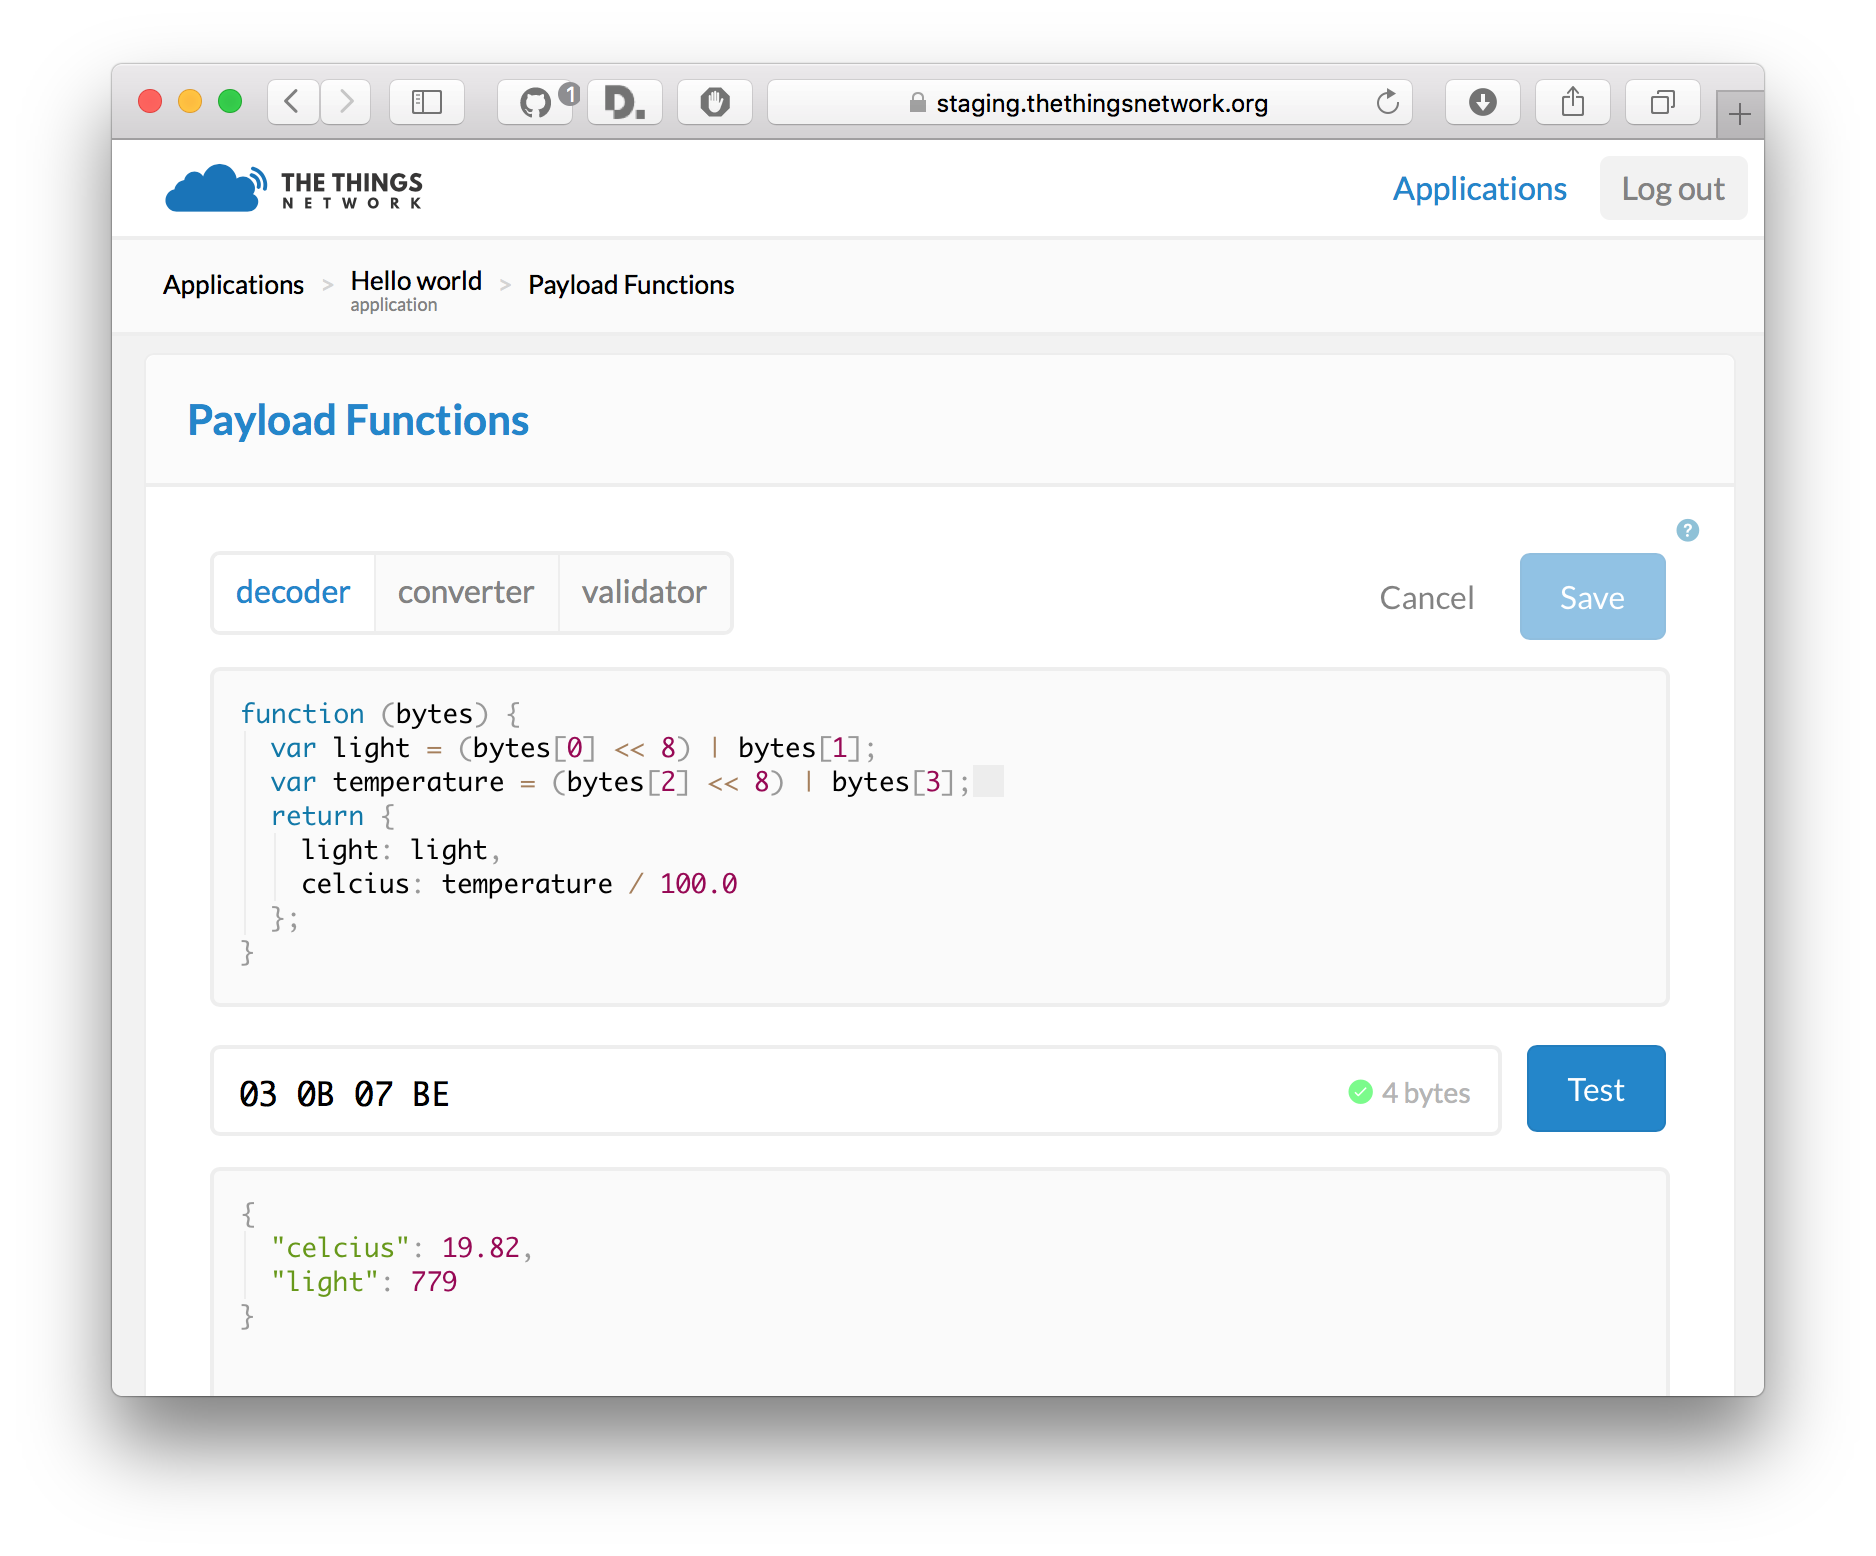
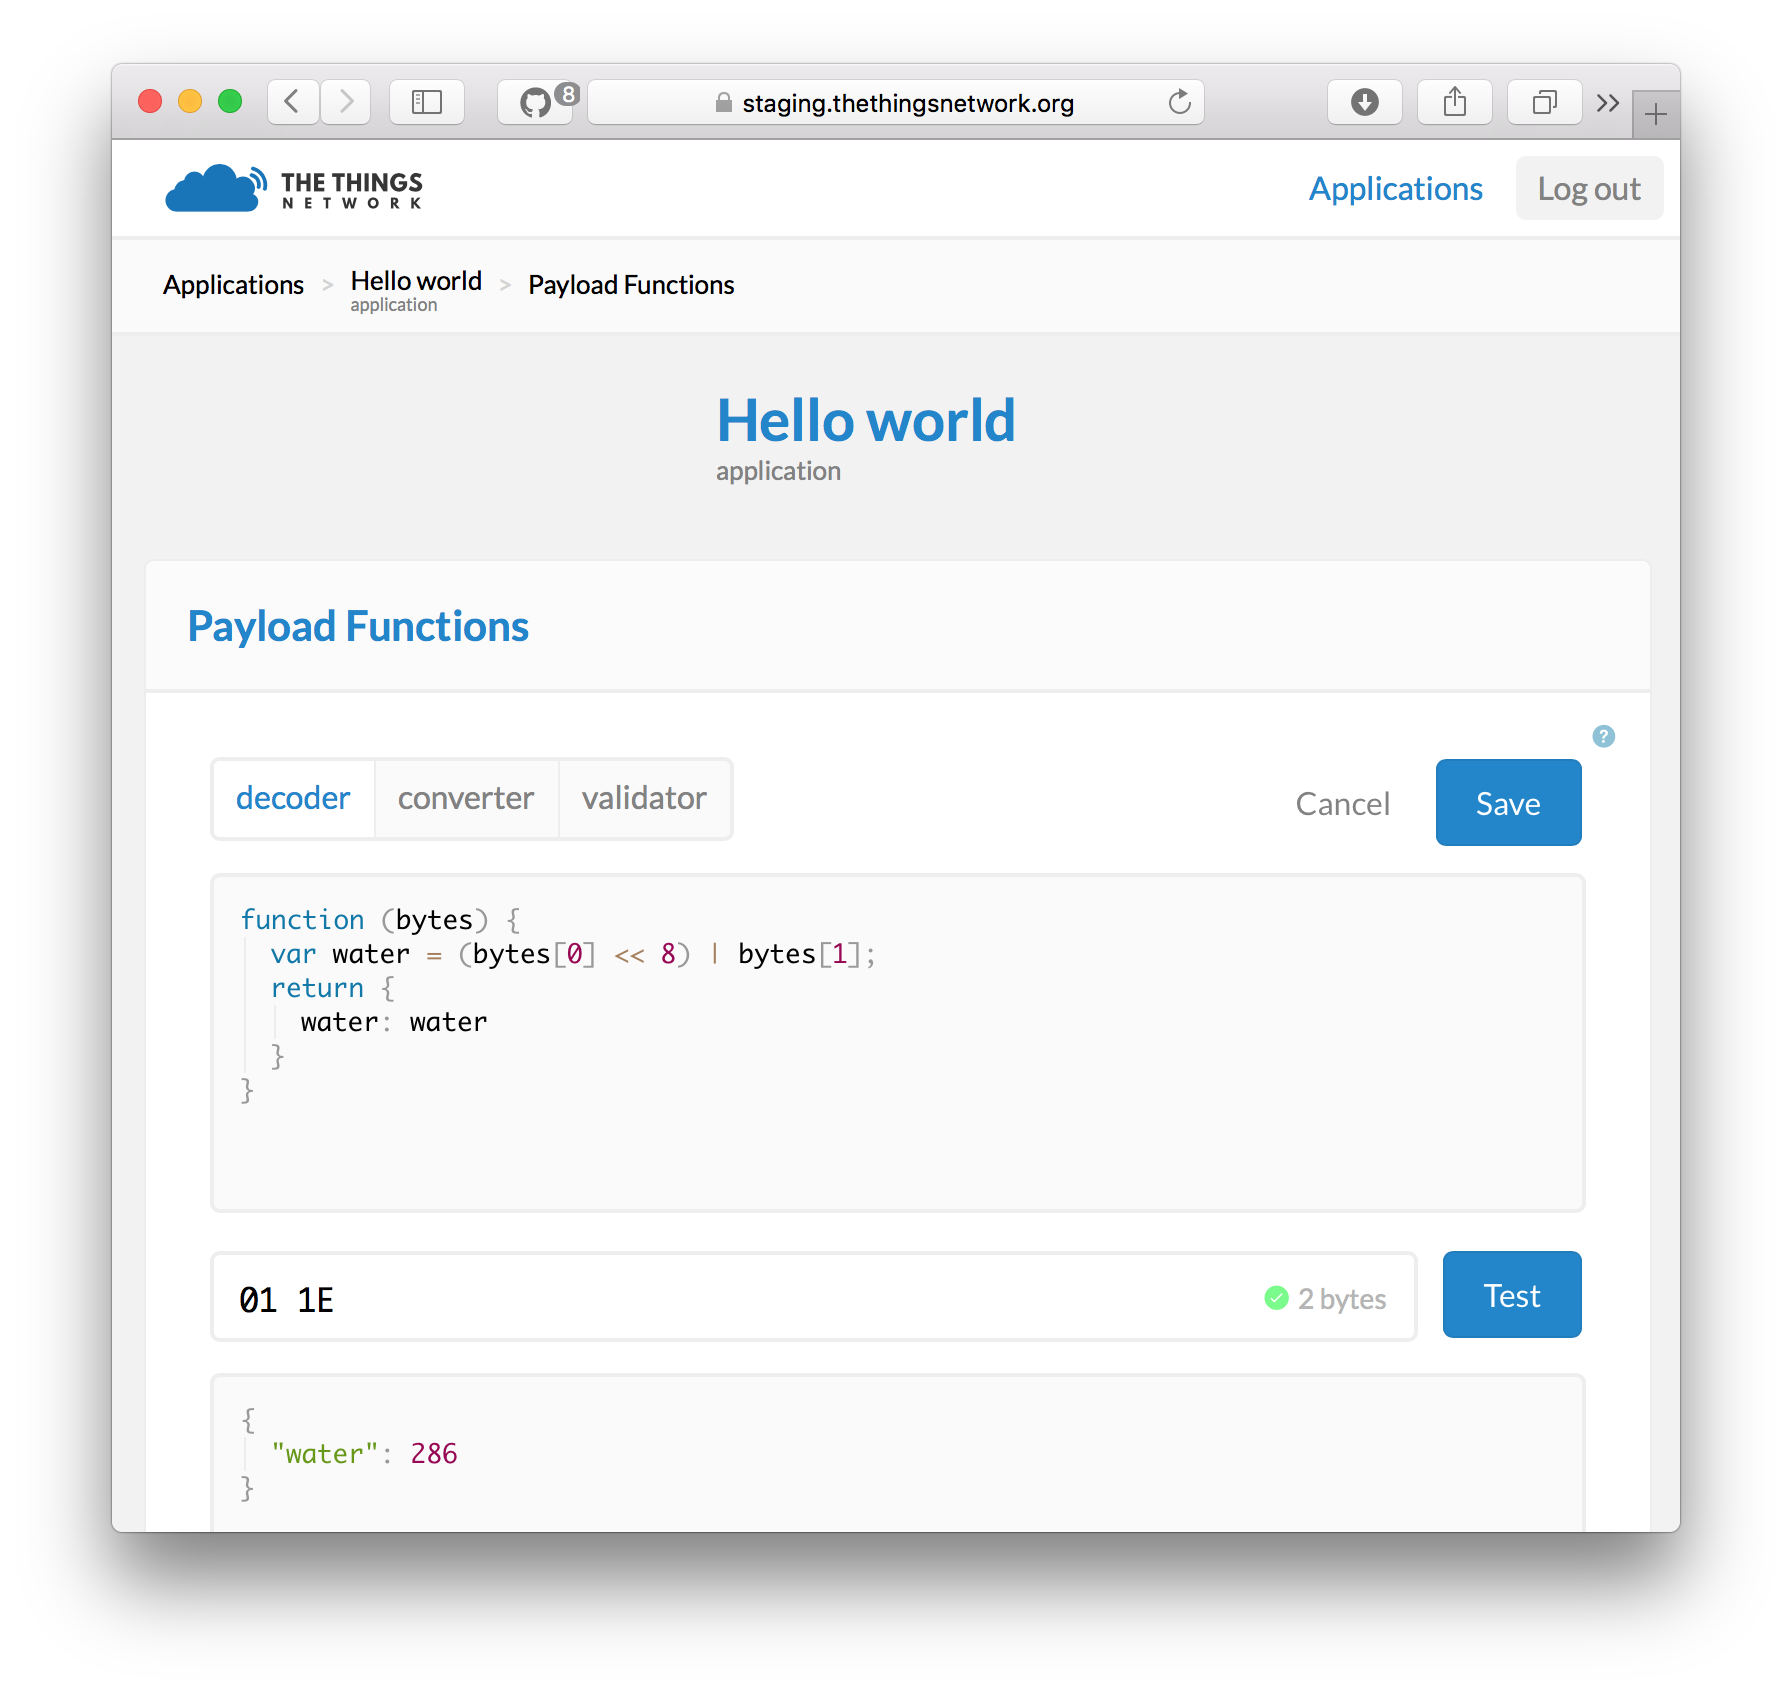
Women Who Code London workshop

diff --git a/workshops/TheThingsUno/README.md b/workshops/TheThingsUno/README.md
@@ -4,21 +4,59 @@
 
 1. The Things Uno
 2. Micro-USB cable
-3. Light and temperature sensor
-4. Breadboard
+3. Water sensor
+4. Grove-to-male jumper cable
 5. Laptop with Windows 7 or higher, Mac OS X or Linux
 
-## Setup
+## Getting Data
 
-### Arduino IDE
+### Setup
 
 1. Download and install [Arduino IDE](https://www.arduino.cc/en/Main/Software)
-2. In Arduino IDE, go to **sketch** > **Include Library** > **Manage Library**, search for **TheThingsNetwork** and install the TheThingsNetwork's Arduino library.
+2. In Arduino IDE, go to **Sketch** > **Include Library** > **Manage Library**, search for **TheThingsNetwork** and install the TheThingsNetwork's Arduino library.
 3. Connect the The Things Uno to your computer using the Micro-USB cable
 4. Select **Tools** > **Board** > **Arduino Leonardo**
 5. Select **Tools** > **Port** > the port that identifies as **Arduino Leonardo**. For example, on Mac OS X:
    ![arduino-port](./media/arduino-port.png)
    On Windows, in **Control Panel**, open the **Device Manager** to see which COM port you should use.
+   
+### Reading Sensor Value
+
+In the Arduino IDE, start with an empty sketch (go to **File** > **New**).
+
+Connect your water sensor to your The Things Uno by using the grove-to-male jumper cable:
+- The red pin goes in `5V`
+- The black pin goes in `GND`
+- The yellow pin goes in digital `2`
+- The white pin is not connected
+
+![overview](./media/overview.jpg)
+
+Replace the `loop()` method:
+
+```c
+void loop() {
+  // read a sensor value
+  uint32_t water = 1023 - analogRead(A0);
+
+  // print it
+  Serial.print(F("The water level is: "));
+  Serial.println(water);
+
+  // wait a second
+  delay(1000);
+}
+```
+
+### Showing Sensor Value
+
+1. Click **Sketch** > **Verify/Compile** and make sure that compilation works (Arduino says *Done compiling*)
+2. Click **Sketch** > **Upload** (Arduino says *Done uploading*)
+3. Go to **Tools** > **Serial Monitor** to see the output of your node. This should look like this:
+
+![sensor-value](./media/sensor-value.png)
+
+## Sending Data
 
 ### The Things Network Dashboard
 
@@ -42,50 +80,31 @@ You will be redirected to the newly created Application page.
 
 ![application info](./media/app-info.png)
 
-*Note: in every component on the dashboard there is a small help icon.
-This opens a help message with details about that components.*
+*Note: in every component on the dashboard there is a small help icon. This opens a help message with details about that components.*
 
-#### Register an ABP Device
-
-The Things Network supports the two LoRaWAN mechanisms to register devices:
-activation by personalization (ABP) and over the air activation (OTAA). In this
-workshop, we use ABP.
-
-##### Register the Device
+#### Register Device
 
 To register the device, go back to the dashboard and click
-**Register Device** on the application page. This will take you to the device
-registration page.
+**Register Device** on the application page. This will take you to the device registration page.
 
-Select **ABP**. We will let both session keys to be randomly generated. To continue,
-click **Register**.
+Select **ABP**. We will let both session keys to be randomly generated. To continue, click **Register**.
 
 ![register-device](./media/register-device-abp.png)
 
-You will be redirected to the device info page. Here you can view all
-information about your device, send messages to the device and view messages
-that were sent by the device.
+You will be redirected to the device info page. Here you can view all information about your device, send messages to the device and view messages that were sent by the device.
 
 **Important**: Enable the **Relax Frame Count** option for this device.
 
-*Note*: Relax Frame Count allows you to restart your device for development purposes
-without the routing services keeping track of the frame counter. Disabling this feature enables replay attacks, e.g.
-sending messages with a frame counter equal or lower than the latest received, so please do not enable relax frame count in production.
+*Note*: Relax Frame Count allows you to restart your device for development purposes without the routing services keeping track of the frame counter. Disabling this feature enables replay attacks, e.g. sending messages with a frame counter equal or lower than the latest received, so please do not enable relax frame count in production.
 
 ![device-info](./media/device-info-abp.png)
-
-## Sending Some Data
 
 ### Configure Device
 
 1. In the Arduino IDE, open **File** > **Examples** > **TheThingsUno** > **Workshop**
-2. Change your `devAddr`, `nwkSKey`, `appSKey` to the values you can find on the device
-   page in the dashboard.
-   *Hint*: If you click the `<>` on the each of the fields on the Device page,
-   their contents are shown as a C-style byte array literal which is extra
-   handy for copy-pasting.
+2. Change your `devAddr`, `nwkSKey`, `appSKey` to the values you can find on the device page in the dashboard.
 
-Use the information shown on the device page to fill in following code snippet:
+*Hint*: If you click the `<>` on the each of the fields on the Device page, their contents are shown as a C-style byte array literal which is extra handy for copy-pasting.
 
 ### Run The Application on Your Device
 
@@ -126,67 +145,28 @@ void loop() {
 }
 ```
 
-## Sending Sensor Values
-
-Instead of sending three bytes, we're going to send real sensor values. But first,
-we need to connect our sensors. In this workshop, we're using a light and a
-temperature sensor.
-
-### Connecting Sensors
-
-Both the light and the temperature sensor have three pins to connect: voltage `VCC`, signal `SIG`
-and ground `GND` (the pin `NC` is not connected). We are connecting these pins to the 5 Volts
-output `5V`, analog pins `A0` and `A1` for signal, and ground `GND` of The Things Uno.
-
-![overview](./media/overview.jpg)
-
-![ttu](./media/ttu.jpg)
-
-![breadboard](./media/breadboard.jpg)
-
 ### Read Sensors
 
-Now that the sensors are connected, we have to write some code in Arduino to read
-its values. Use this code snippet that replaces your current `loop()` function:
+Now that you can send data to The Things Network, we’re going to send your sensor value. Use this code snippet that replaces your current `loop()` function:
 
 ```c
-uint16_t getLight(int pin) {
-  return analogRead(pin);
-}
-
-float getCelcius(int pin) {
-  // See http://www.seeedstudio.com/wiki/Grove_-_Temperature_Sensor
-  int a = analogRead(pin);
-  float resistance = (1023.0 - a) * 10000 / a;
-  return 1 / (log(resistance/10000)/3975 + 1 / 298.15) - 273.15;
-}
-
 void loop() {
-  // Read the sensors.
-  uint16_t light = getLight(A0);
-  float celcius = getCelcius(A1);
+  // read a sensor value
+  uint32_t water = 1023 - analogRead(A0);
 
-  // Show the values in the serial monitor for debugging
-  debugPrintLn("Light is " + String(light));
-  debugPrintLn("Temperature is " + String(celcius));
+  // print it
+  Serial.print(F("The water level is: "));
+  Serial.println(water);
 
-  // To get rid of floating point and keep two decimals, multiply by 100
-  // e.g. 21.52 becomes 2152
-  int16_t temperature = (int16_t)(celcius * 100);
-
-  // We need 4 bytes to send both values
-  byte data[4];
-  data[0] = light >> 8;
-  data[1] = light & 0xFF;
-  data[2] = temperature >> 8;
-  data[3] = temperature & 0xFF;
+  // encode the value in two bytes
+  byte data[2];
+  data[0] = value >> 8;
+  data[1] = value & 0xFF;
   
-  // Send it to the network
-  ttu.sendBytes(data, sizeof(data));
+  // send it to The Things Network
+  ttn.sendBytes(data, sizeof(data));
 
-  debugPrintLn();
-
-  // Wait 10 seconds
+  // wait 10 seconds
   delay(10000);
 }
 ```
@@ -197,35 +177,25 @@ Click **Tools** > **Serial Monitor** to verify that your device is sending
 sensor values:
 
 ```
-Light is 782
-Temperature is 19.82
-Sending: mac tx uncnf 1 with 4 bytes
+The water level is: 120
+Sending: mac tx uncnf 1 with 2 bytes
 Successful transmission
 
-Light is 779
-Temperature is 19.82
-Sending: mac tx uncnf 1 with 4 bytes
+The water level is: 286
+Sending: mac tx uncnf 1 with 2 bytes
 Successful transmission
 ...
 ```
 
-Take a look at the device page on the dashboard. You should see your payload, e.g. `03 0B 07 BE`.
+Take a look at the device page on the dashboard. You should see your payload, e.g. `01 1E`.
 
 #### Unpacking The Bytes
 
-To make working with payloads easier, The Things Network allows you to
-decode bytes to a meaningful data structure for your application. The payload
-functions are three functions: the *decoder*, the *converter* and the *validator*.
+To make working with payloads easier, The Things Network allows you to decode bytes to a meaningful data structure for your application. The payload functions are three functions: the *decoder*, the *converter* and the *validator*.
 
-Here, we will only be using the *decoder* to decode the bytes your device is
-sending. Use the optional
-*converter* function to convert units (e.g. Celcius to Fahrenheit) and the
-optional *validator* function to check whether the payload is valid (e.g. invalidate
-outliers).
+Here, we will only be using the *decoder* to decode the bytes your device is sending. Use the optional *converter* function to convert units (e.g. Celcius to Fahrenheit) and the optional *validator* function to check whether the payload is valid (e.g. invalidate outliers).
 
-To set up the payload functions, go back to the Application view and click the
-**edit** button of **Payload Functions**. This will bring you to the
-Payload Function editor.
+To set up the payload functions, go back to the Application view and click the **edit** button of **Payload Functions**. This will bring you to the Payload Function editor.
 
 ![payload editor](./media/payload-editor.png)
 
@@ -236,32 +206,27 @@ basically the reverse of what you did on the Arduino:
 
 ```javascript
 function (bytes) {
-  var light = (bytes[0] << 8) | bytes[1];
-  var temperature = (bytes[2] << 8) | bytes[3];  
+  var water = (bytes[0] << 8) | bytes[1];
   return {
-    light: light,
-    celcius: temperature / 100.0
+	  water: water
   };
 }
 ```
 
-Before saving our payload function we can test it first by entering a test
-payload in the box below. For example, enter `03 0B 07 BE` and click **Test**. The test output
+Before saving our payload function we can test it first by entering a test payload in the box below. For example, enter `01 1E` and click **Test**. The test output
 should correspond to the temperature value we sent earlier:
 
 ```json
 {
-  "celcius": 19.82,
-  "light": 779
+  "water": 286
 }
 ```
 
 ![payload-test](./media/payload-test.png)
 
-When you are happy with the output of your payload function, click **Save**. All
-incoming messages will now be decoded using these payload functions. You can see
-if this worked by going back to the device page and looking at the messages. The
-payload will now be logged in its decoded form.
+When you are happy with the output of your payload function, click **Save**. All incoming messages will now be decoded using these payload functions. You can see if this worked by going back to the device page and looking at the messages. The payload will now be logged in its decoded form.
+
+This is an example with temperature and light:
 
 ![decoded-payloads](./media/decoded-payloads.png)
 
@@ -286,7 +251,7 @@ Click **Deploy** and monitor the **debug** tab on the right for incoming message
 seeing messages like:
 
 ```
-{ "light": 779, "celcius": 19.82 }
+{ "water": 286 }
 ```
 
 ![nodered-flow](./media/nodered-debug.png)
@@ -310,7 +275,7 @@ To complete the end-to-end workshop, we're going to use If This Then That (IFTTT
 7. Click **Receive a web request** as the trigger
 8. Enter an **Event Name**, for example `data`
 9. Click **That** to configure an action, e.g. post a tweet on Twitter, e-mail or a notification to your phone
-10. Use the fields `value1` and `value2` as ingredient, e.g. the tweet text could be `Hey, the light is {{value1}} and the temperature is {{value2}} degrees! @thethingsntwrk`
+10. Use the field `value1` as ingredient, e.g. the tweet text could be `Hey, the water level is {{value1}} degrees! @thethingsntwrk`
 11. Click **Create Action**
 12. Click **Create Recipe**
 13. Go back to Node-RED
@@ -319,8 +284,7 @@ To complete the end-to-end workshop, we're going to use If This Then That (IFTTT
 ```javascript
 return {
     payload: {
-        value1: msg.payload.light,
-        value2: msg.payload.celcius
+        value1: msg.payload.water
     }
 }
 ```
